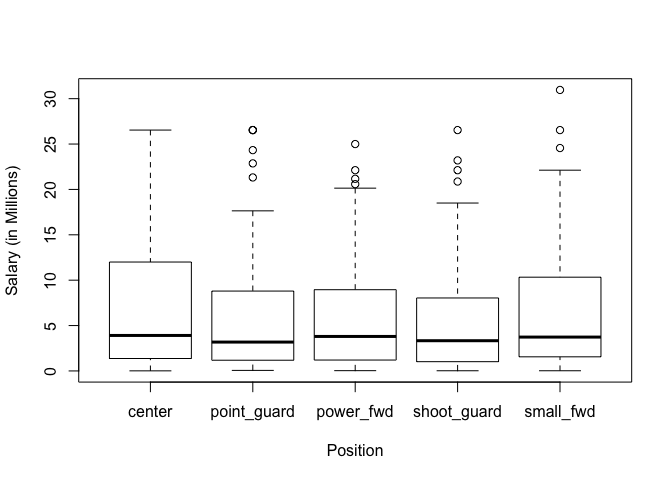
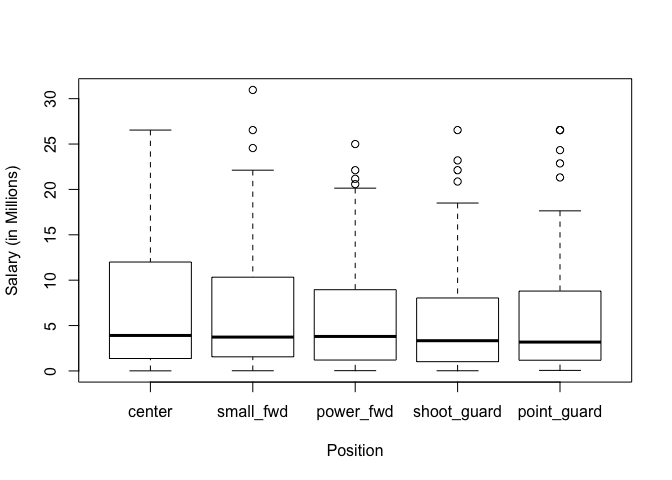
hw01: FINAL submission (2.0)

diff --git a/hw01/hw01-doug-koerber.md b/hw01/hw01-doug-koerber.md
@@ -40,23 +40,12 @@ head(experience_int, 10)
 #### Position Factor
 
 ``` r
-center <- position == "C"
-pf <- position == "PF"
-sg <- position == "SG"
-pg <- position == "PG"
-sf <- position == "SF"
-position_fac = replace(position, center, 'center')
-position_fac = replace(position_fac, sf, 'small_fwd')
-position_fac = replace(position_fac, pf, 'power_fwd')
-position_fac = replace(position_fac, sg, 'shoot_guard')
-position_fac = replace(position_fac, pg, 'point_guard')
-position_fac = factor(position_fac)
-rm(center, pf, sg, pg, sf)
+position_fac = factor(position, levels = c("C", "SF", "PF", "SG", "PG"), labels = c("center", "small_fwd", "power_fwd", "shoot_guard", "point_guard"))
 head(position_fac, 5)
 ```
 
     ## [1] center      power_fwd   shoot_guard point_guard small_fwd  
-    ## Levels: center point_guard power_fwd shoot_guard small_fwd
+    ## Levels: center small_fwd power_fwd shoot_guard point_guard
 
 ##### Position Frequencies
 
@@ -65,16 +54,16 @@ table(position_fac)
 ```
 
     ## position_fac
-    ##      center point_guard   power_fwd shoot_guard   small_fwd 
-    ##          89          85          89          95          83
+    ##      center   small_fwd   power_fwd shoot_guard point_guard 
+    ##          89          83          89          95          85
 
 ``` r
 table(position_fac) / length(position_fac)
 ```
 
     ## position_fac
-    ##      center point_guard   power_fwd shoot_guard   small_fwd 
-    ##   0.2018141   0.1927438   0.2018141   0.2154195   0.1882086
+    ##      center   small_fwd   power_fwd shoot_guard point_guard 
+    ##   0.2018141   0.1882086   0.2018141   0.2154195   0.1927438
 
 ### 2) Scatterplot of Points and Salary
 
